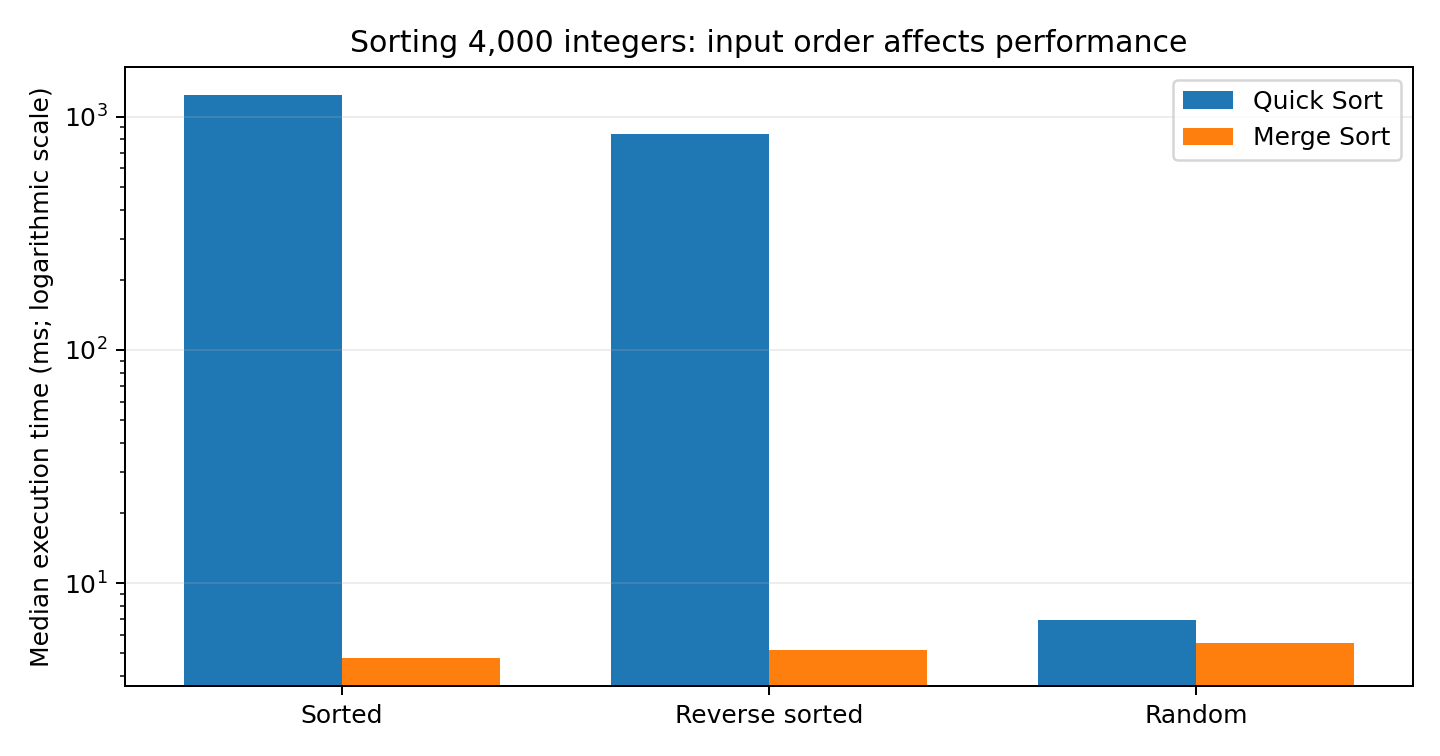
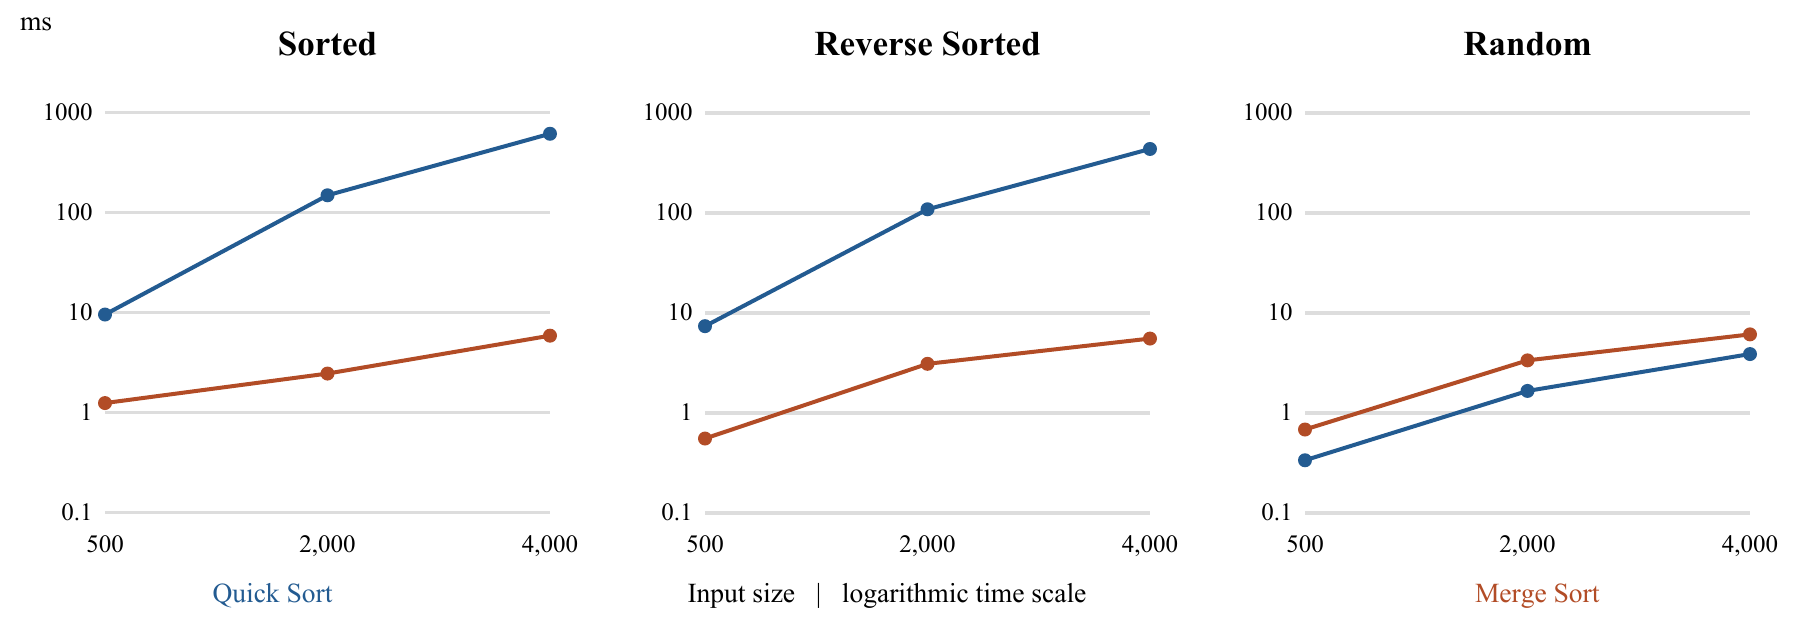
added doc

diff --git a/README.md b/README.md
@@ -18,7 +18,13 @@ This pivot rule intentionally demonstrates Quick Sort's worst case on pre-sorted
 
 ## GitHub
 
-Create a **public** repository named `MSCS532_Assignment2`, push these source files, and replace the repository URL placeholder in your written report before submitting.
+Repository: https://github.com/ravitejaponnekanti/MSCS532_Assignment2
+
+Submit the written report and implementation code through the course portal.
+The report must contain your student ID and exact course title before submission.
+The current benchmark CSV, environment information, and chart were regenerated
+on Windows with Python 3.12.14. The report summarizes the largest input size;
+the CSV includes all 18 measurements. The chart uses a logarithmic time axis.
 
 Suggested commits:
 
